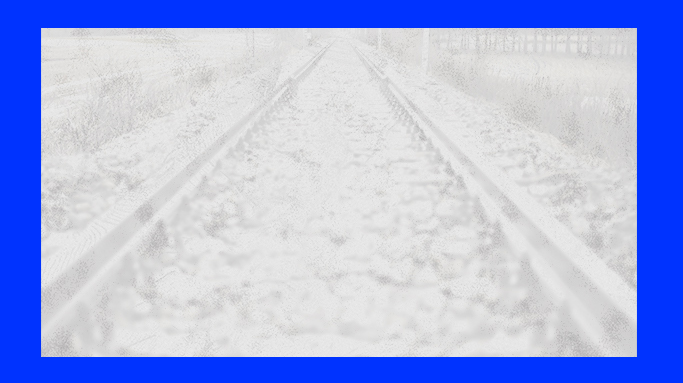
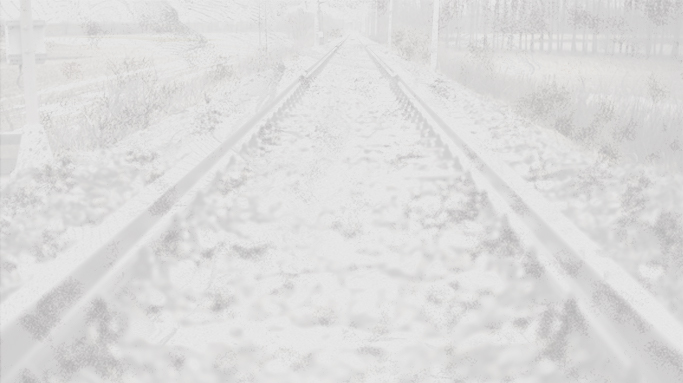
HackTrain 4.0 HomePage Fixed

diff --git a/4.0/css/style.css b/4.0/css/style.css
@@ -11,7 +11,8 @@ html, body {
   height:100%;
   margin:0;
   padding:0;
-  background-color: #0033ff;
+  background-color:#0033ff;
+
 }
 
 
@@ -20,6 +21,36 @@ a {
   text-decoration: none;
 }
 
+#top, #bottom, #left, #right {
+  background: #0033ff;
+  position: fixed;
+  z-index:10;
+  }
+  #left, #right {
+    top: 0; bottom: 0;
+    width: 15px;
+    }
+    #left { left: 0; }
+    #right { right: 0; }
+    
+  #top, #bottom {
+    left: 0; right: 0;
+    height: 15px;
+    }
+    #top { top: 0; }
+    #bottom { bottom: 0; }
+
+@media 
+
+/* Fairly small screens including iphones */
+only screen and (max-width: 500px),
+
+/* iPads */
+only screen and (min-device-width: 768px) and (max-device-width: 1024px) 
+
+{
+  #top, #bottom, #left, #right { display: none; }
+}
 /* -------------------------------- 
 
 Main Components 
@@ -112,7 +143,7 @@ Main Components
   top:21%;
   left:39%;
   margin-left: 42.5px;
-  margin-top: 400px;
+  margin-top: 420px;
 }
 .cd-floating-background a:nth-child(4) {
   -webkit-transform: translateZ(400px);
@@ -122,7 +153,7 @@ Main Components
   top:21%;
   left:39%;
   margin-left: 192.5px;
-  margin-top: 400px;
+  margin-top: 420px;
 }
 
 .cd-floating-background a:nth-child(4):hover{

diff --git a/4.0/js/main.js b/4.0/js/main.js
@@ -43,7 +43,7 @@ jQuery(document).ready(function($){
 	});
 
 	function initBackground() {
-		var wrapperHeight = Math.ceil(halfWindowW*2/aspectRatio), 
+		var wrapperHeight = Math.ceil(halfWindowW*2.1/aspectRatio), 
 			proportions = ( maxRotationY > maxRotationX ) ? 1.1/(Math.sin(Math.PI / 2 - maxRotationY*Math.PI/180)) : 1.1/(Math.sin(Math.PI / 2 - maxRotationX*Math.PI/180)),
 			newImageWidth = Math.ceil(halfWindowW*2*proportions),
 			newImageHeight = Math.ceil(newImageWidth/aspectRatio),

diff --git a/4.0/index.html b/4.0/index.html
@@ -21,7 +21,10 @@
 </head>
 
 <body>
-    
+    <div id="left"></div>
+    <div id="right"></div>
+    <div id="top"></div>
+    <div id="bottom"></div>
 
         <div class="cd-background-wrapper">
             <figure class="cd-floating-background">
